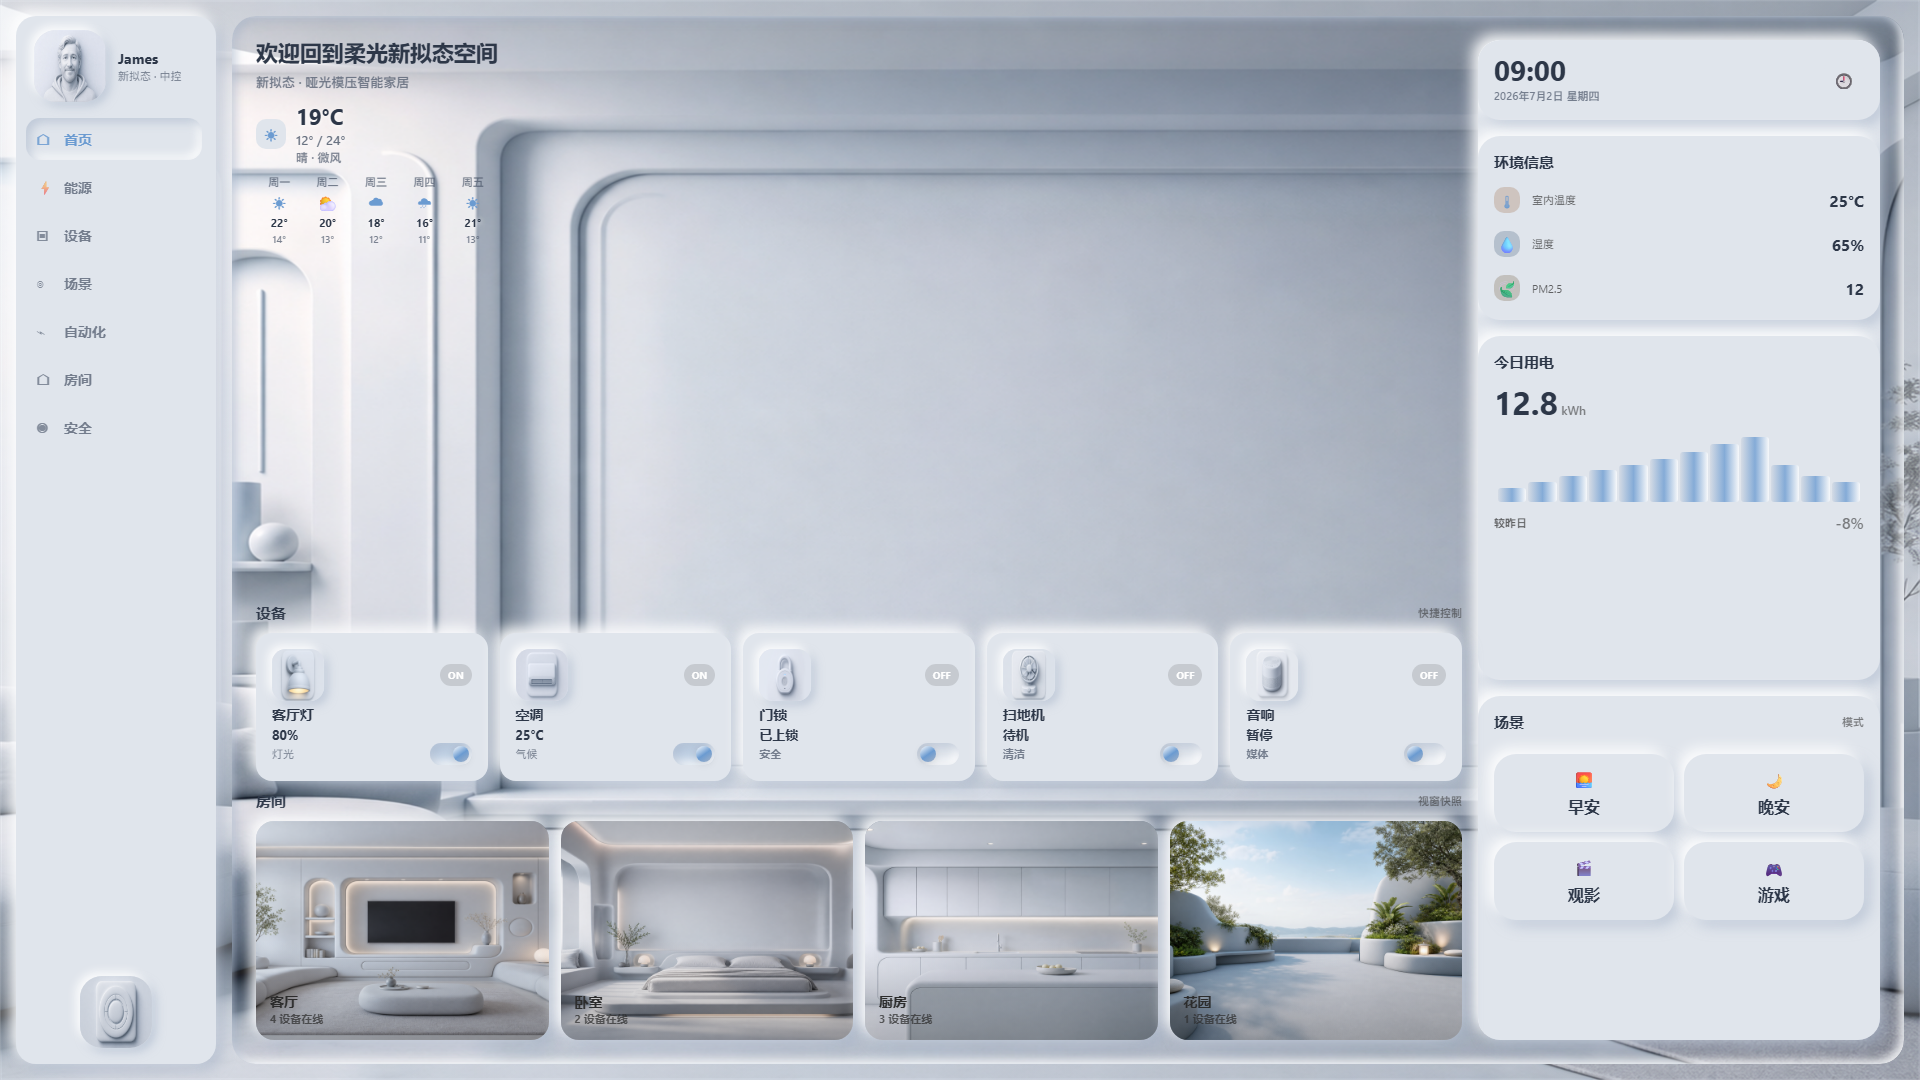
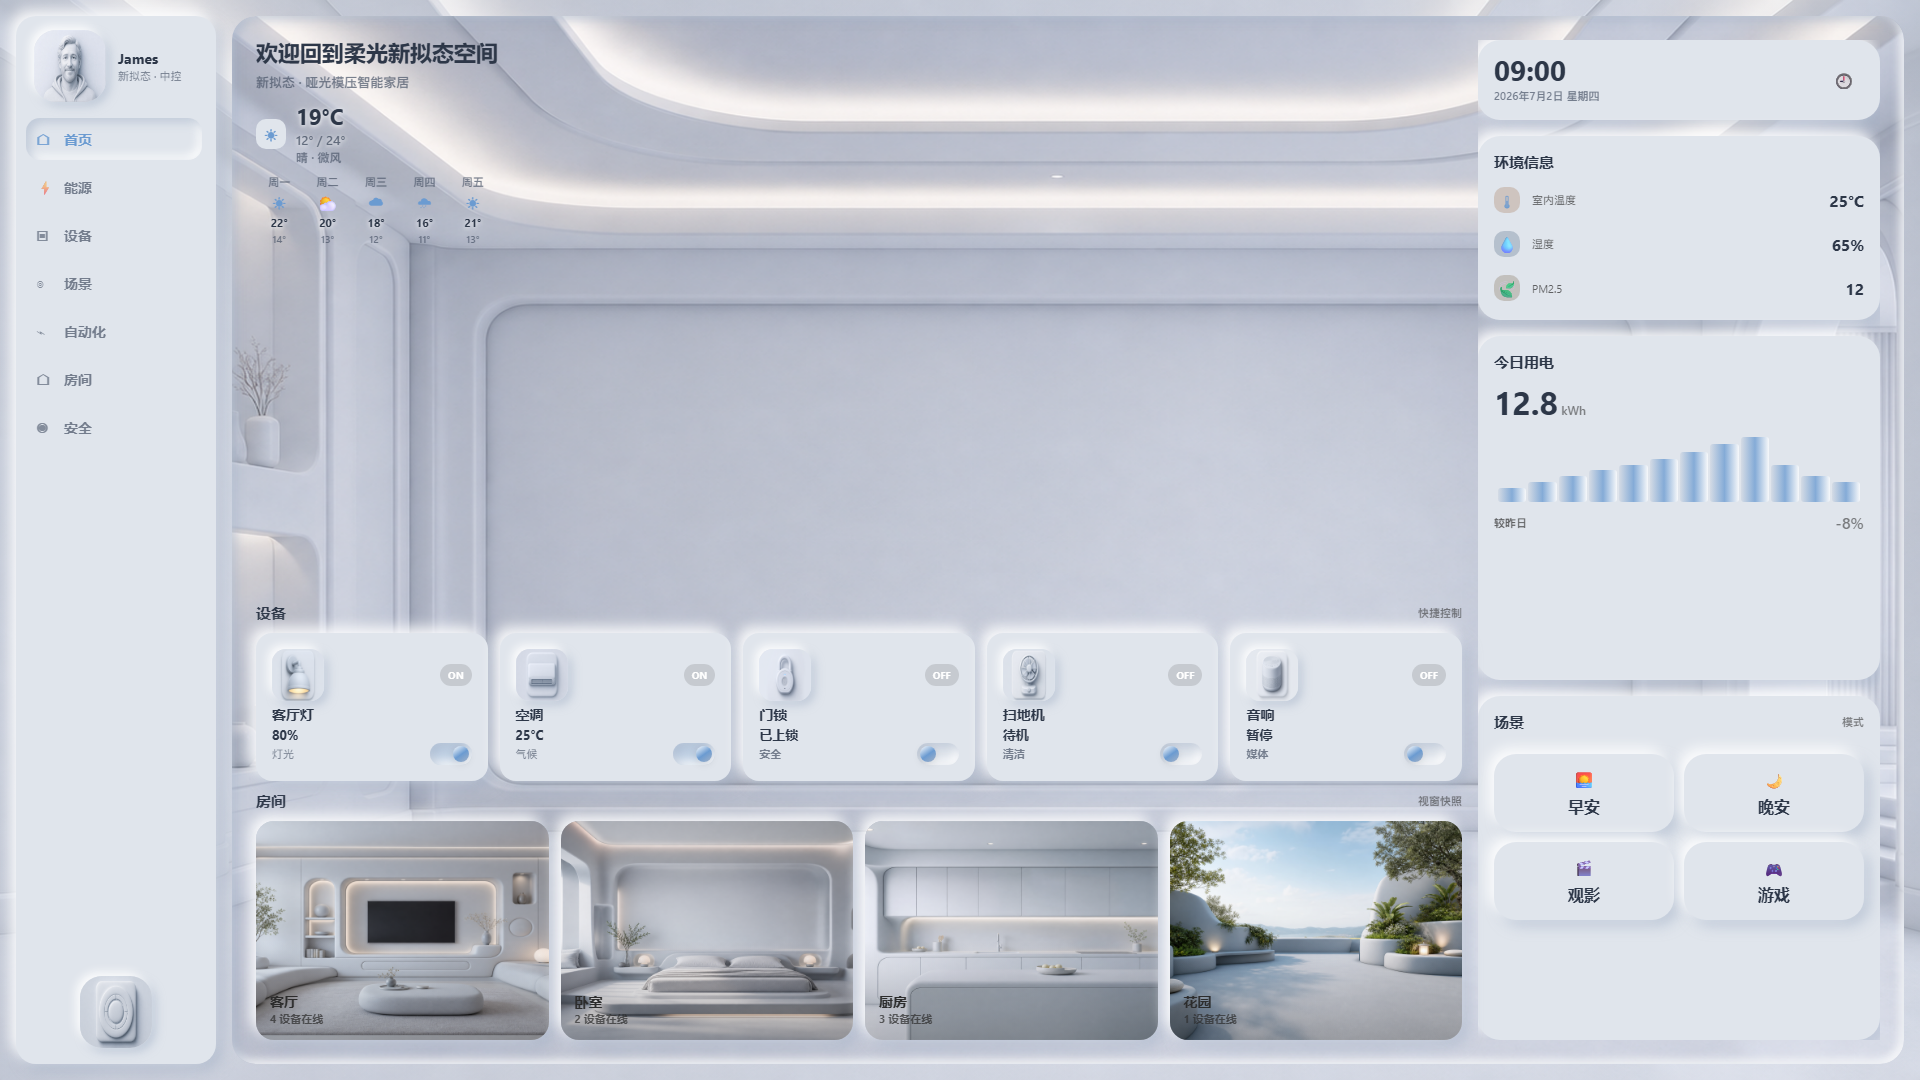
fix(skins): refresh Soft UI background and flatten right column
Regenerate homepage background; keep Soft UI dual shadows only on inner cards, not the right stack wrapper.

diff --git a/skins-pro/neumorphism-soft-ui/theme.css b/skins-pro/neumorphism-soft-ui/theme.css
@@ -1069,7 +1069,16 @@ button { font:inherit; }
   border: 0 !important;
   box-shadow: var(--neo-inset) !important;
 }
-.side,
+/* Right column: flat transparent stack — Soft UI shadows only on inner cards */
+.side {
+  background: transparent !important;
+  backdrop-filter: none !important;
+  -webkit-backdrop-filter: none !important;
+  border: 0 !important;
+  box-shadow: none !important;
+  filter: none !important;
+  outline: none !important;
+}
 .glass-card,
 .time-card,
 .panel-energy,
@@ -1085,11 +1094,6 @@ button { font:inherit; }
   color: var(--neo-text-strong) !important;
   box-shadow: var(--neo-raised) !important;
   border-radius: 22px !important;
-}
-.side {
-  /* kill the heavy right-edge cast shadow from old glass stack */
-  filter: none !important;
-  outline: none !important;
 }
 .chip.active {
   box-shadow: var(--neo-inset) !important;
